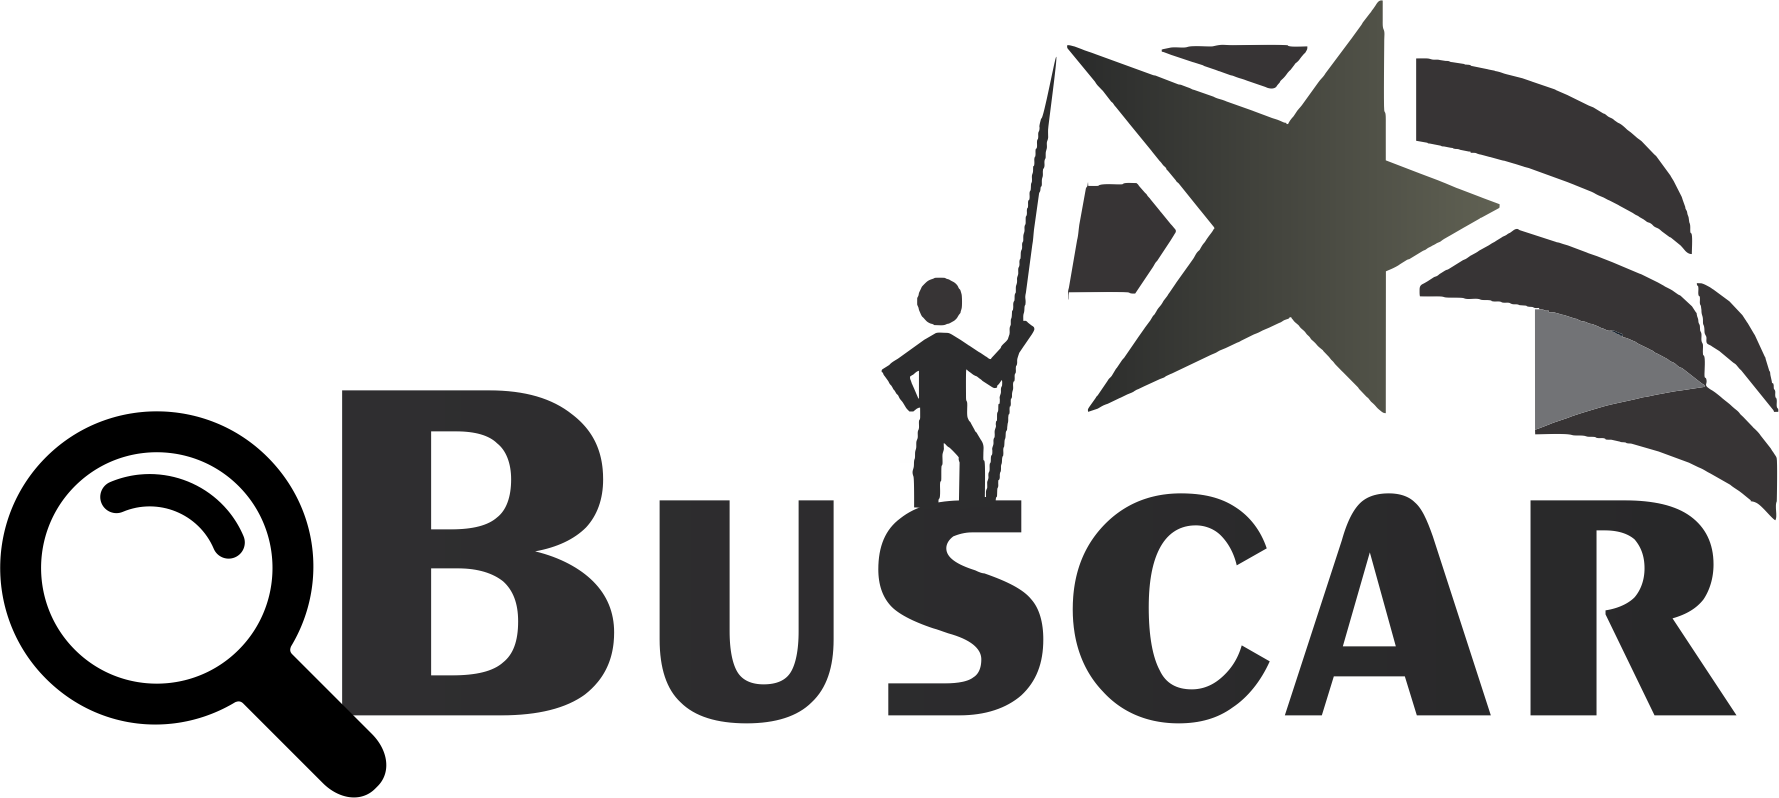
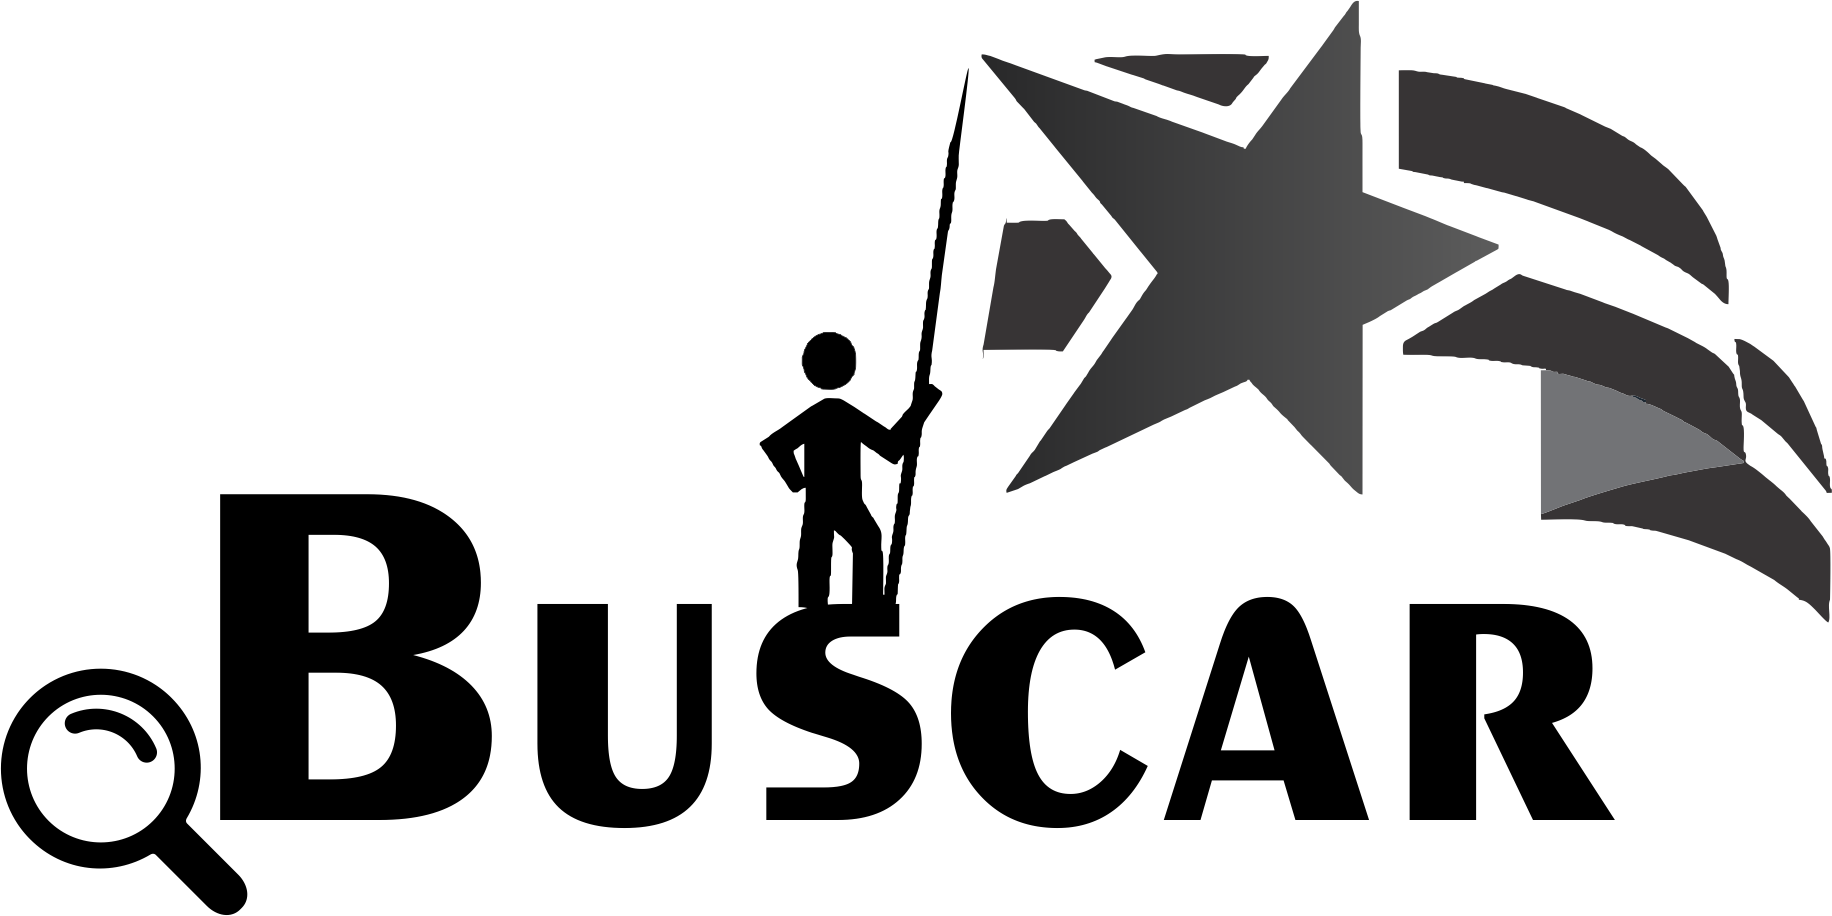
correção e atualização imagens

diff --git a/templates/estado.php b/templates/estado.php
@@ -20,7 +20,7 @@ if (!isLogado()) {
 	<?php include "cabecalho.php" ?>
 	<div class ="caixa" id="cadastro_candidato">
 		<a href="./estado.php">
-			<img  class="imagemCaixa" src="../static/img/logo_c_cidade-estado.png" alt="logo">
+			<img  class="imagemCaixa" src="../static/img/logo_estado.png" alt="logo">
 		</a>
 		<form class = "cadastroEstilo" name="cadastro_estado" action="cadastro_estado.php" method="post">
 			<input type="hidden" name="id_estado">

diff --git a/templates/municipio.php b/templates/municipio.php
@@ -24,7 +24,7 @@
 	<?php include "cabecalho.php" ?>
 	<div class ="caixa" id="cadastro_candidato">
 		<a href="./municipio.php">
-			<img  class="imagemCaixa" src="../static/img/logo_c_cidade-estado.png" alt="logo">
+			<img  class="imagemCaixa" src="../static/img/logo_cidade.png" alt="logo">
 		</a>
 		<form class = "cadastroEstilo" action="cadastro_municipio.php" method="post">
 			<input type="hidden" name="id_estado"><br>

diff --git a/templates/sobre.php b/templates/sobre.php
@@ -39,7 +39,7 @@ session_start();
 						<li><a href="partido.php" class="link1"> Partidos</a></li>
 						<li><a href="estado.php" class="link1"> Estados </a></li>
 						<li><a href="municipio.php" class="link1"> Municípios</a></li>
-					</ul>s
+					</ul>
 				</li>
 				<li><a href="./sobre.html " class="link1"> Sobre</a> </li><br><br>
 			</ul>
